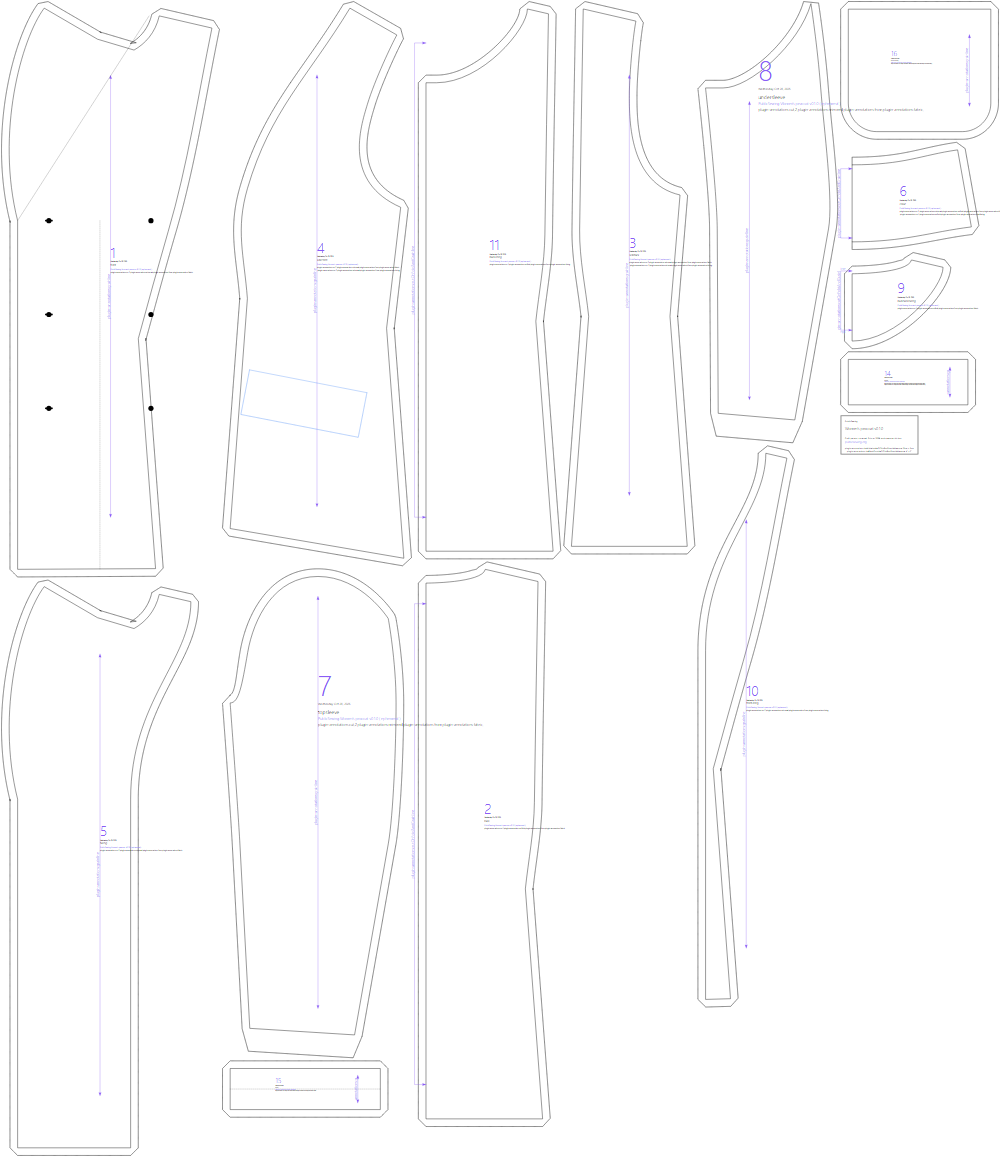
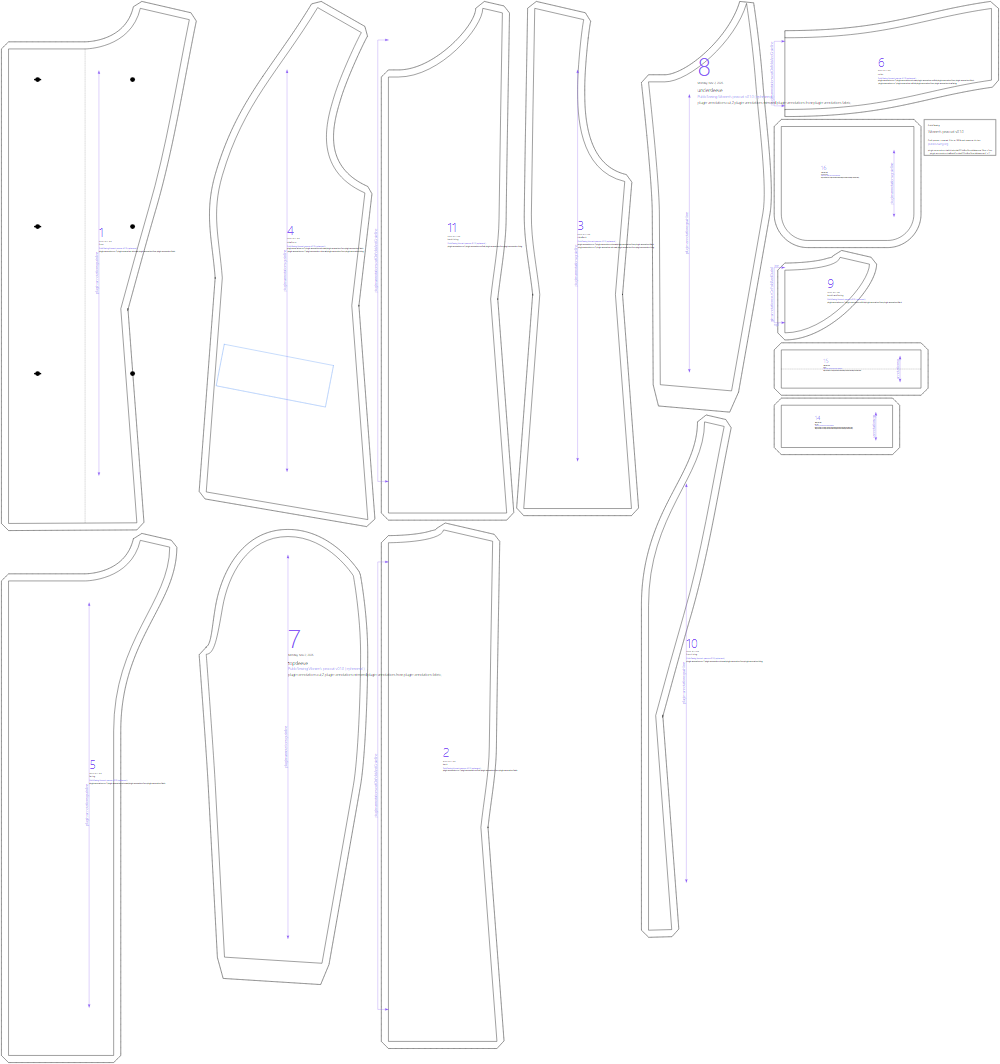
Women's peacoat: Merz's storm collar by default
lapelStyle defaults to storm (Dave, 2026-11-02): buttoned to the neck under
the deep collar, as Merz's Diagram XXI. The notched and peaked lapels stay as
options. Preview, illustration prompt and docs follow.

diff --git a/designs/womens-peacoat/BRIEF.md b/designs/womens-peacoat/BRIEF.md
@@ -29,14 +29,14 @@ double-breasted front (`jacketLayout`'s `rows`), with two rows of buttons.
 | Length | Hip length | `lengthBelowWaist` 28% of waist to floor (about 11 in below the waist) |
 | Overlap | 3¾–4¾ in | `buttonExtension` 11% of the chest (4 in at bust 36), straight |
 | Buttons | Two rows | `doubleBreasted` on; `buttons` 3 to a row, each row `buttonRow` 62% of the lap from CF (2½ in); holes on the outer row |
-| Lapel and collar | Storm collar: no lapel, the front buttoned to the neck; the collar sewn from the front edge (25) round to CB, 3¾ in deep at the front and 4¼ at CB, its outer edge swept out ⅓ of the height | `lapelStyle` storm (`lib/jacket.mjs` `closed`): the top edge runs from CF neck straight out to the front edge, the top button 40% of the lap below the neck, the collar from CB to the front edge with square ends, `collarWidth` 28% of neck, constant depth. Or (the default) | `lapelStyle` notch, `lapelWidth` 32% and `collarWidth` 28% of the neck: a wide lapel turning at the bust line (`breakBelowBust` 0) and a deep turn-down collar |
+| Lapel and collar | Storm collar: no lapel, the front buttoned to the neck; the collar sewn from the front edge (25) round to CB, 3¾ in deep at the front and 4¼ at CB, its outer edge swept out ⅓ of the height | `lapelStyle` storm (`lib/jacket.mjs` `closed`): the top edge runs from CF neck straight out to the front edge, the top button 40% of the lap below the neck, the collar from CB to the front edge with square ends, `collarWidth` 28% of neck, constant depth (the default). Or `lapelStyle` notch, `lapelWidth` 32% and `collarWidth` 28% of the neck: a wide lapel turning at the bust line (`breakBelowBust` 0) and a deep turn-down collar |
 | Pockets | None drawn | The tailored jacket's hip flap pocket; no breast welt or ticket pocket |
 | Lining | Not given | `lining` on, as the tailored jacket |
 | Facing | Not given | `facingWidth` 17% of the chest (wider than the lap) |
 
 ## Changes and what isn't modelled
-- **The storm collar** (2026-11-01) is `lapelStyle` storm. The default stays the notched lapel
-  with a deep collar. The storm collar's depth is constant, not 3¾ in at the front and 4¼ at
+- **The storm collar** (2026-11-01) is the default, `lapelStyle` storm (Dave, 2026-11-02); the
+  notched or peaked lapel with a deep collar are options. The storm collar's depth is constant, not 3¾ in at the front and 4¼ at
   CB, and no tab is drafted to fasten it across the throat when worn up.
 - **Merz's neck dart** isn't taken; the bust shaping goes into the princess seams, as on the
   tailored jacket.

diff --git a/designs/README.md b/designs/README.md
@@ -54,7 +54,7 @@ without declaring them, so they are listed in our package.json.
 | `tailored-jacket/` | Women's semi-fitted jacket: princess seams flared below the waist, peak or notched lapel, collar, breast welt, set-in flap pockets, back-neck facing, lining, two-piece sleeves, on Breanna, Mitchell 1921. [BRIEF.md](tailored-jacket/BRIEF.md) | draft (not sewn) | OK, 2026-10-26 |
 | `fitted-jacket/` | Women's tight-fitted jacket: the tailored jacket's princess seams with an under-arm panel in place of the side seam, a shaped CB seam, and a shawl collar cut in one with the front, on Breanna, Mitchell 1921 pp. 42–45. [BRIEF.md](fitted-jacket/BRIEF.md) | draft (not sewn) | not draped |
 | `double-dart-jacket/` | Mitchell's tight-fitted jacket with a double dart: the fitted jacket with a second front seam from the shoulder to the hem, no pockets, Mitchell 1921 pp. 46–47. [BRIEF.md](double-dart-jacket/BRIEF.md) | draft (not sewn) | not draped |
-| `womens-peacoat/` | Women's peacoat: the tailored jacket double-breasted (a 4" lap, two rows of three buttons), hip length, a wide notched lapel and deep collar, hip flap pockets, lined, Merz 1911 Diagram XXI. [BRIEF.md](womens-peacoat/BRIEF.md) | draft (not sewn) | not draped |
+| `womens-peacoat/` | Women's peacoat: the tailored jacket double-breasted (a 4" lap, two rows of three buttons), hip length, Merz's storm collar (buttoned to the neck; notched or peaked lapels as options), hip flap pockets, lined, Merz 1911 Diagram XXI. [BRIEF.md](womens-peacoat/BRIEF.md) | draft (not sewn) | not draped |
 | `field-jacket/` | Women's field jacket: the box coat at hip length, small lapels, five buttons on CF, four flapped patch pockets, Merz 1911 Diagram XX. [BRIEF.md](field-jacket/BRIEF.md) | draft (not sewn) | not draped |
 | `overcoat/` | Single-breasted overcoat to below the knee: the peacoat's notched lapel, collar, vent, pockets and lining with a single-breasted front, drafted two sizes up, Simons 1916 pp. 6–7. [BRIEF.md](overcoat/BRIEF.md) | draft (not sewn) | not draped |
 | `box-overcoat/` | Loose, straight single-breasted overcoat flared to a 66" sweep: the overcoat three sizes up, Simons 1916 pp. 14–15. [BRIEF.md](box-overcoat/BRIEF.md) | draft (not sewn) | not draped |

diff --git a/site/illustrations/PROMPTS.md b/site/illustrations/PROMPTS.md
@@ -430,12 +430,13 @@ Written from each design's `spec.yaml` and `BRIEF.md` at its defaults, like the 
 ### womens-peacoat: Women's peacoat
 > A women's **hip-length, double-breasted** coat in heavy navy wool, **shaped to the waist by
 > princess seams** and flaring a little over the hips. **Two rows of three buttons**, the top
-> pair high on the chest, buttoning right over left. **Wide notched lapels** turning at the
-> bust, under a **deep turn-down collar**. **A flap pocket set into each hip**; no breast or
+> pair high on the chest, buttoning right over left **up to the neck**: **no lapels**. A
+> **deep storm collar** sewn round the neckline to the front edge, turned down (it can be worn
+> up round the throat). **A flap pocket set into each hip**; no breast or
 > patch pockets. **Two-piece sleeves**. Lined.
 >
 > Leave out: belt, single-breasted fronts, patch pockets, slanted hand-warmer pockets,
-> epaulettes, gold or anchor buttons, long length, a hood.
+> epaulettes, gold or anchor buttons, long length, a hood, lapels or revers.
 
 ### pyjama-jacket: Pyjama jacket
 > A loose men's **pyjama (sleeping) jacket** in soft striped or plain cotton (white with blue

diff --git a/README.md b/README.md
@@ -50,7 +50,7 @@ a check that the pieces sew together into the garment, not a fit result.
 | `tailored-jacket` | Women's semi-fitted jacket, princess seams, peak lapel | Mitchell 1921 |
 | `fitted-jacket` | Women's tight-fitted jacket with an under-arm panel and a shawl collar | Mitchell 1921 |
 | `double-dart-jacket` | Tight-fitted jacket shaped by two front seams over the shoulder | Mitchell 1921 |
-| `womens-peacoat` | Women's hip-length double-breasted coat, princess seams, wide lapels | Merz 1911 |
+| `womens-peacoat` | Women's hip-length double-breasted coat, princess seams, buttoned to the neck under a storm collar | Merz 1911 |
 | `field-jacket` | Women's straight hip-length jacket with four flapped patch pockets | Merz 1911 |
 | `box-coat` | Women's loose box coat with a notched lapel and set-in flap pockets | Mitchell 1921 |
 | `girls-coat` | Girl's loose coat to below the knee, notched collar, flap pockets | Sheifer 1908 |
